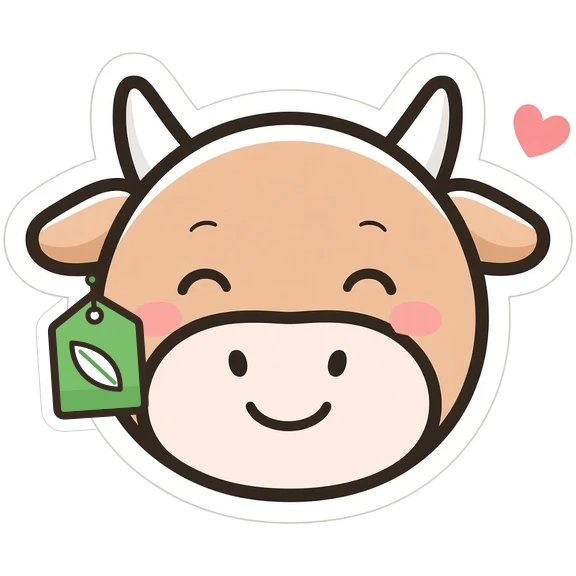
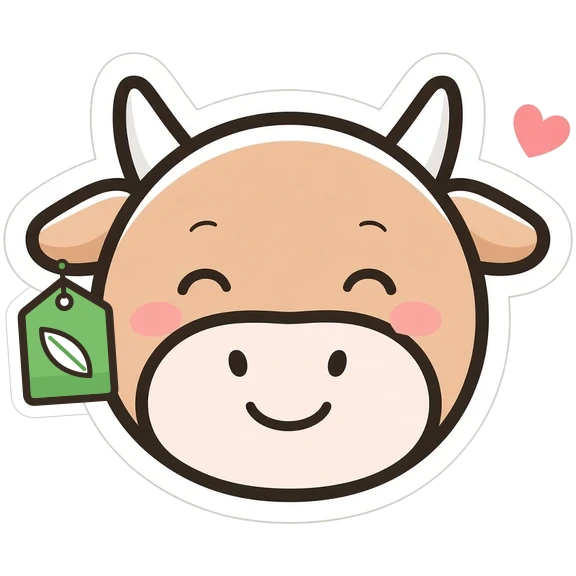
yjp-v17: 유기농 태그를 12종 모두 왼쪽 귀 아래 가장자리에 매달리게 수정

Changed region(s): [[0.0312, 0.4375, 0.25, 0.75]]

diff --git a/nbzzEbYc9KFBr3/app/sw.js b/nbzzEbYc9KFBr3/app/sw.js
@@ -1,4 +1,4 @@
-const C='yjp-v16';
+const C='yjp-v17';
 const F=['./','index.html','style.css','app.js','curl.js','manifest.webmanifest','icon-180.png','icon-192.png','icon-512.png','fonts/Pretendard-Regular.woff2','fonts/Pretendard-Bold.woff2','emoji/hold.webp'].concat([...Array(12).keys()].map(i=>'emoji/p'+i+'.webp')).concat([...Array(12).keys()].map(i=>'emoji/o'+i+'.webp'));
 self.addEventListener('install',e=>{e.waitUntil(caches.open(C).then(c=>c.addAll(F)).then(()=>self.skipWaiting()))});
 self.addEventListener('activate',e=>{e.waitUntil(caches.keys().then(k=>Promise.all(k.filter(x=>x!==C).map(x=>caches.delete(x)))).then(()=>self.clients.claim()))});
